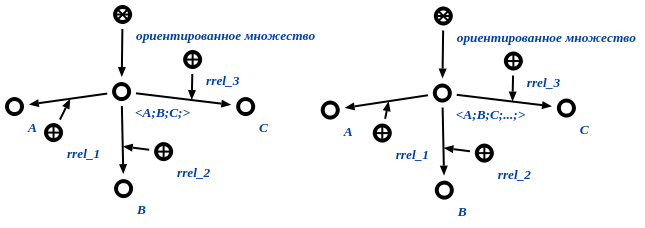
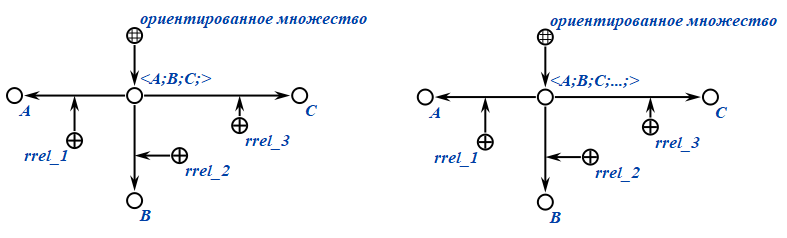
SD of identifiers updated

diff --git a/Contents/chapter2/sd_ostis_sys_models/sd_kb/sd_identifiers.tex b/Contents/chapter2/sd_ostis_sys_models/sd_kb/sd_identifiers.tex
@@ -61,44 +61,21 @@
 \scnexplanation{\textbf{\textit{идентификатор-множество}} представляет собой \textit{идентификатор sc-элемента}, являющегося \textit{множеством}, которому принадлежат элементы, \textit{идентификаторы} которых перечисляются в фигурных скобках через знак точки с запятой «;».
 
 В скобках должны быть перечислены все элементы идентифицируемого \textit{множества}. Если перечисляются не все элементы идентифицированного \textit{множества}, то после последнего элемента ставится знак «;», а далее ставится знак «…».}
-\scnrelfrom{описание типичного экземпляра}{
-\scnfilelong{
-\begin{figure}[H]
-\centering
-\begin{subfigure}
-  \centering
-  \includegraphics[width=0.3\linewidth]{figures/sd_identifiers/typical_sc_neighborhood_for_sc_identifier_set1.png}
-  \label{fig:sub1}
-\end{subfigure}
-\begin{subfigure}
-  \centering
-  \includegraphics[width=0.3\linewidth]{figures/sd_identifiers/typical_sc_neighborhood_for_sc_identifier_set2.png}
-  \label{fig:sub2}
-\end{subfigure}
-\end{figure}
-}}
+\scnrelfrom{типичная семантическая окрестность}{
+\scnfilescg{figures/sd_identifiers/typical_sc_neighborhood_for_sc_identifier_set.png}}
+
 
 \scnheader{идентификатор-кортеж}
 \scnidtf{< >-идентификатор}
 \scnexplanation{\textbf{\textit{идентификатор-кортеж}} – это \textit{идентификатор ориентированного множества}, которому принадлежат элементы, идентификаторы которых перечислены в скобках через знак точки с запятой «;». При этом считается, что всем элементам описываемого \textit{множества} приписаны \textit{числовые атрибуты}, соответствующие порядку следования имени элемента в перечислении.}
-\scnrelfrom{описание типичного экземпляра}{
-\scnfilelong{
-\begin{figure}[H]
-\centering
-\includegraphics[width=1\linewidth]{figures/sd_identifiers/typical_sc_neighborhood_for_sc_identifier_tuple_set.png}
-\end{figure}
-}}
+\scnrelfrom{типичная семантическая окрестность}{
+\scnfilescg{figures/sd_identifiers/typical_sc_neighborhood_for_sc_identifier_tuple_set.png}}
 
 \scnheader{идентификатор-операция}
 \scnidtf{(+)-идентификатор}
 \scnexplanation{\textbf{\textit{идентификатор-операция}} – это \textit{идентификатор sc-элемента}, являющегося результатом \textit{арифметической}, теоретико-множественной или \textit{логической операции}, обозначение которой записано какими-либо специальными символами в круглых скобках.}
-\scnrelfrom{описание типичного экземпляра}{
-\scnfilelong{
-\begin{figure}[H]
-\centering
-\includegraphics[width=0.5\linewidth]{figures/sd_identifiers/typical_sc_neighborhood_for_sc_identifier_operation_set.png}
-\end{figure}
-}}
+\scnrelfrom{типичная семантическая окрестность}{
+\scnfilescg{figures/sd_identifiers/typical_sc_neighborhood_for_sc_identifier_operation_set.png}}
 
 \scnheader{идентификатор*}
 \scniselement{бинарное отношение}
